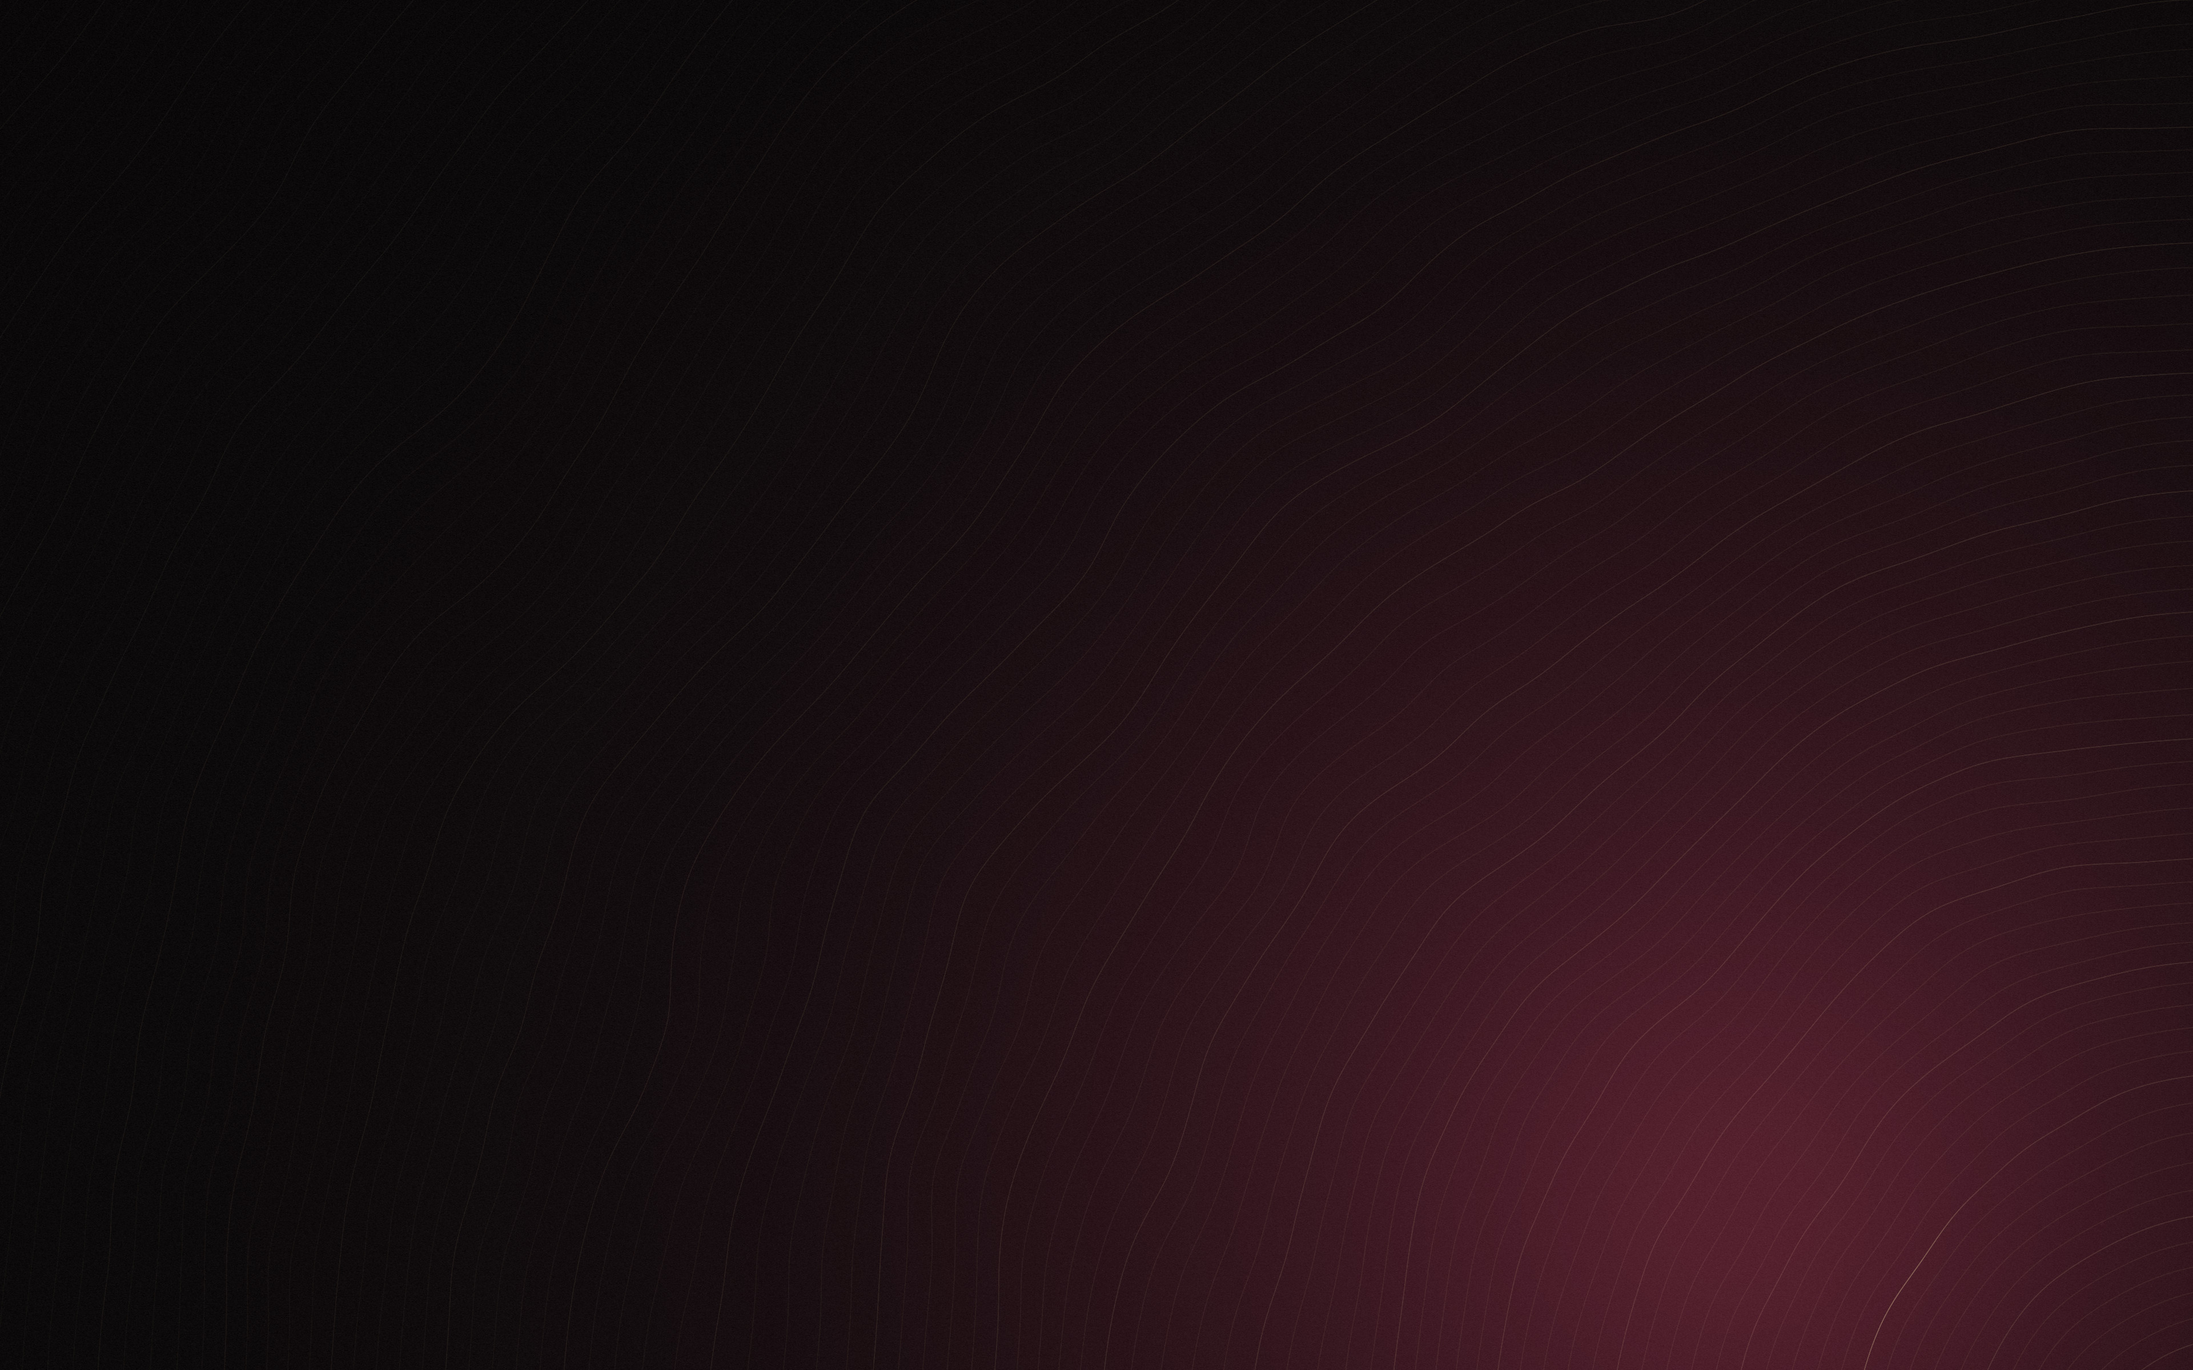
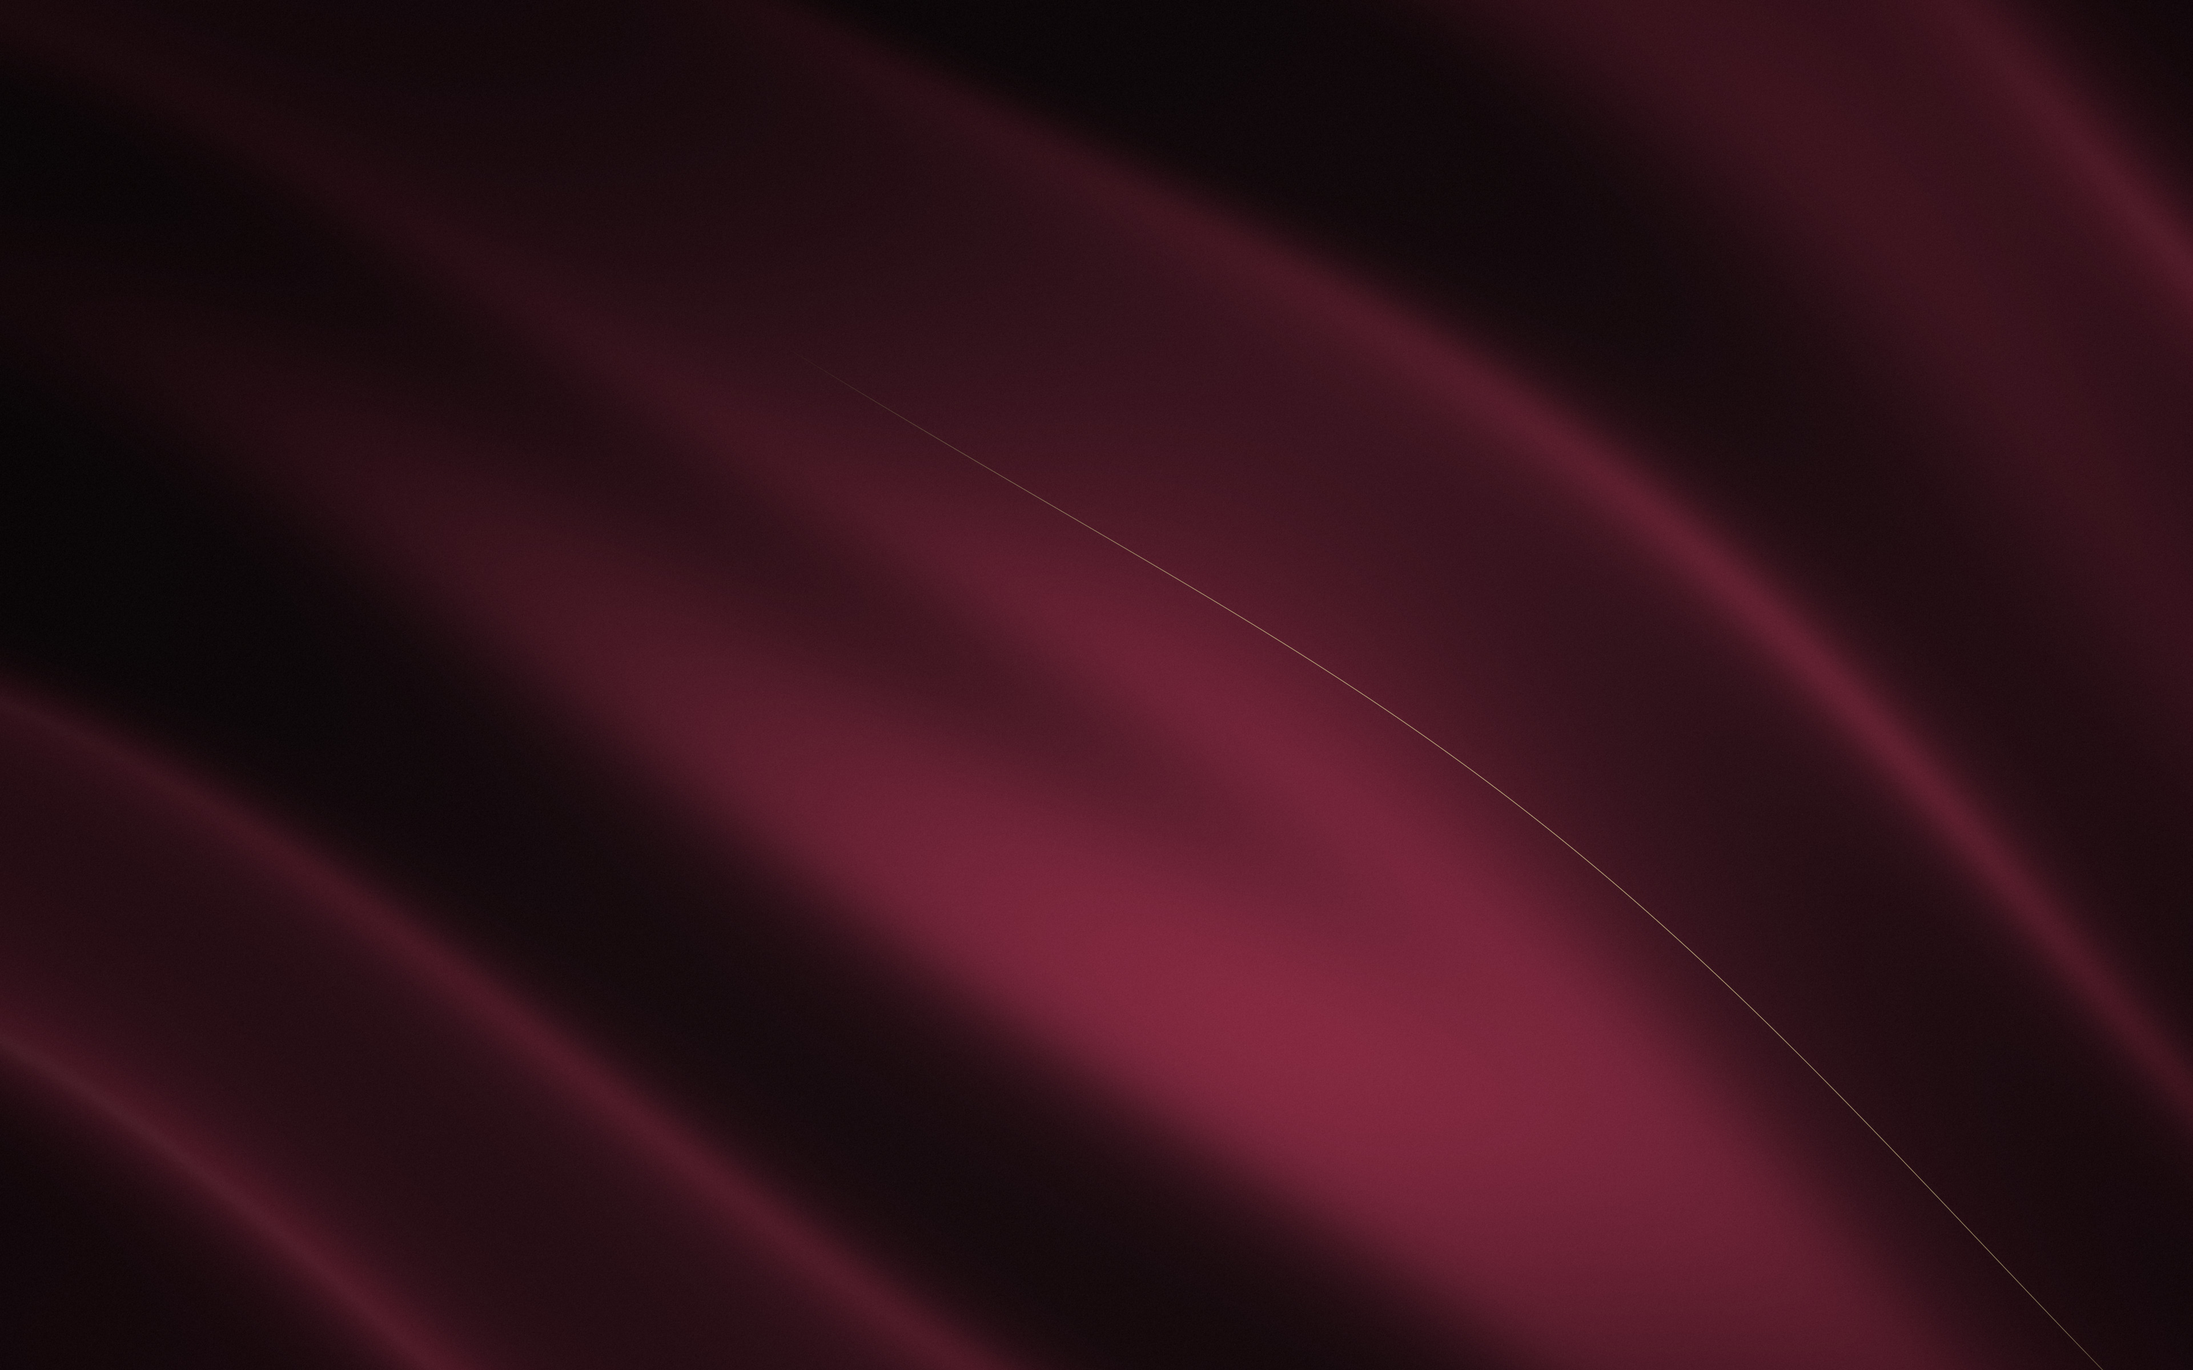
Redesign wallpapers: satin drape motif with fine gold hairline

diff --git a/tools/make_wallpapers.py b/tools/make_wallpapers.py
@@ -2,11 +2,19 @@
 # SPDX-License-Identifier: GPL-3.0-or-later
 """Procedural wallpaper generator for the Bordeaux themes (Hallmark direction).
 
+Motif, "Drape": broad satin folds sweeping diagonally across the frame, lit
+from the upper left, with the light pooled right of centre and the upper-left
+(dock, top bar) kept calm and dark. One fine gold hairline rides a fold crest.
+Height field from warped sine sums -> normal map -> diffuse + anisotropic
+sheen + specular, mapped through a per-variant tone ramp, then grain and
+TPDF dither so there is no banding.
+
 Deterministic: the same --seed always gives the same pixels. Colours come from
 tokens/tokens.toml. Needs only Pillow and numpy.
 
   tools/make_wallpapers.py                      # all variants -> wallpapers/
   tools/make_wallpapers.py --variant Bordeaux --seed 7 --out /tmp/wp
+  tools/make_wallpapers.py --variant Bordeaux --preview 1280x800 --out /tmp/wp
 """
 import argparse
 import tomllib
@@ -16,26 +24,22 @@ import numpy as np
 from PIL import Image
 
 ROOT = Path(__file__).resolve().parent.parent
+F = np.float32
+MAX_BYTES = 1_500_000            # cap for the 3840x2400 JPEG
 
 
 def hex_rgb(h):
     h = h.lstrip("#")
-    return np.array([int(h[i:i + 2], 16) for i in (0, 2, 4)], np.float32) / 255.0
+    return np.array([int(h[i:i + 2], 16) for i in (0, 2, 4)], F) / 255.0
 
 
-def smooth_noise(rng, w, h, cells, octaves=4):
-    """Fractal value noise in [-1, 1], bicubic-upsampled from coarse grids."""
-    out = np.zeros((h, w), np.float32)
-    amp, tot = 1.0, 0.0
-    for o in range(octaves):
-        n = cells * 2 ** o
-        gw, gh = n + 3, max(3, int(n * h / w) + 3)
-        g = rng.random((gh, gw)).astype(np.float32)
-        im = Image.fromarray(g, "F").resize((w, h), Image.BICUBIC)
-        out += amp * (np.asarray(im) - 0.5) * 2
-        tot += amp
-        amp *= 0.5
-    return out / tot
+def lin(c):                      # sRGB -> linear, so blends and light are physical
+    return np.where(c <= 0.04045, c / 12.92, ((c + 0.055) / 1.055) ** 2.4).astype(F)
+
+
+def srgb(c):
+    c = np.clip(c, 0, 1)
+    return np.where(c <= 0.0031308, c * 12.92, 1.055 * c ** (1 / 2.4) - 0.055).astype(F)
 
 
 def smoothstep(a, b, x):
@@ -43,75 +47,155 @@ def smoothstep(a, b, x):
     return t * t * (3 - 2 * t)
 
 
-def render(pal, dark, w, h, seed, lines=True, strength=1.0):
-    rng = np.random.default_rng(seed)
-    S = h / 2400.0                       # scale so look is size-independent
-    yy, xx = np.mgrid[0:h, 0:w].astype(np.float32)
-    nx, ny = xx / w, yy / h
+def mix(a, b, t):
+    return a + (b - a) * t
 
-    bg = hex_rgb(pal["bg-0"])
-    accent = hex_rgb(pal["accent"])
-    gold = hex_rgb(pal["gold"])
-    ink = gold if dark else accent       # line colour (spec: gold dark, merlot light)
 
-    # --- base: deep warm vertical gradient, slightly lifted toward the glow
+def ramp(t, stops):
+    """Piecewise-linear colour ramp; t is (h, w) in [0, 1], stops [(pos, rgb)]."""
+    t = np.clip(t, 0, 1)
+    out = np.empty(t.shape + (3,), F)
+    for c in range(3):
+        out[..., c] = np.interp(t, [p for p, _ in stops], [col[c] for _, col in stops])
+    return out
+
+
+# --------------------------------------------------------------------------
+# Per-variant look. Everything is derived from palette tokens.
+# --------------------------------------------------------------------------
+def look(pal, name, dark):
+    bg, acc, hi = hex_rgb(pal["bg-0"]), hex_rgb(pal["accent"]), hex_rgb(pal["accent-hi"])
+    gold, fg = hex_rgb(pal["gold"]), hex_rgb(pal["fg-0"])
+    grey = lambda c, k: mix(c, np.full(3, c.mean(), F), k)
+    if name == "Oxblood-Noir":   # same drape, carbon-neutral, lower key
+        stops = [(0.00, bg * 0.55),
+                 (0.24, mix(bg, grey(acc, 0.35), 0.30)),
+                 (0.52, mix(bg, grey(acc, 0.15), 0.78)),
+                 (0.78, acc * 1.08),
+                 (1.00, mix(hi, fg, 0.22) * 1.15)]
+        return dict(stops=stops, spec=mix(hi, fg, 0.6), spec_k=0.40, sheen=acc,
+                    sheen_k=0.22, line=gold, line_a=0.70, pool=0.92, floor=0.20,
+                    grain=0.0065)
+    if dark:                     # Bordeaux, Quiet Wine
+        stops = [(0.00, bg * 0.60),
+                 (0.24, mix(bg, acc, 0.42) * 0.90),
+                 (0.52, acc * 1.02),
+                 (0.78, hi * 1.18),
+                 (1.00, mix(hi, gold, 0.35) * 1.45)]
+        return dict(stops=stops, spec=mix(hi, fg, 0.5), spec_k=0.45, sheen=hi,
+                    sheen_k=0.30, line=gold, line_a=0.70, pool=1.0, floor=0.24,
+                    grain=0.0070)
+    # Merlot-Day: ivory satin with merlot in the shadows of the folds
+    b1 = hex_rgb(pal["bg-1"])
+    stops = [(0.00, mix(bg * 0.60, acc, 0.46)),
+             (0.24, mix(bg * 0.84, acc, 0.20)),
+             (0.50, mix(bg * 0.95, acc, 0.06)),
+             (0.75, bg),
+             (1.00, mix(b1, np.ones(3, F), 0.35))]
+    return dict(stops=stops, spec=np.ones(3, F), spec_k=0.30, sheen=b1, sheen_k=0.10,
+                line=gold, line_a=0.95, pool=1.0, floor=0.42, grain=0.0055)
+
+
+# --------------------------------------------------------------------------
+def drape(w, h, seed):
+    """Return (height, fold-axis coordinate) in unit space (frame height = 1)."""
+    r = np.random.default_rng(seed)
+    p = r.uniform(-0.25, 0.25, 6).astype(F)          # small, seed-driven phase drift
+    yy, xx = np.mgrid[0:h, 0:w].astype(F)
+    x, y = xx / F(h), yy / F(h)
+    del xx, yy
+    a = np.deg2rad(-30.0)
+    u = (x * np.cos(a) - y * np.sin(a)).astype(F)    # along the folds
+    v = (x * np.sin(a) + y * np.cos(a)).astype(F)    # across the folds
+    # the cloth twists: across-fold coordinate warped by the along-fold one
+    vv = v + 0.085 * np.sin(u * 2.2 + 0.7 + p[0]) + 0.040 * np.sin(u * 4.1 - v * 2.0 + 1.9 + p[1])
+    ph = vv * 8.6 + 0.70 * np.sin(u * 1.6 + 0.2 + p[2])
+    # asymmetric fold profile: soft bulge, tighter crease
+    hgt = (np.sin(ph) + 0.30 * np.sin(2 * ph + 0.9)) * 0.62
+    hgt += np.sin(vv * 2.3 - u * 0.9 + 1.0 + p[3]) * 0.80          # broad swell
+    hgt += np.sin(vv * 15.0 + u * 2.6 + 0.4 + p[4]) * 0.045        # fine ripple
+    return x, y, hgt.astype(F), ph.astype(F)
+
+
+def render(pal, name, dark, w, h, seed, plain=False):
+    L = look(pal, name, dark)
+    x, y, hgt, ph = drape(w, h, seed)
+    px = F(1.0 / h)                                  # unit size of one pixel
+
+    # normals from the height field (unit-space slope)
+    gy, gx = np.gradient(hgt)
+    k = F(0.36) / px
+    gx *= -k
+    gy *= -k
+    inv = 1.0 / np.sqrt(gx * gx + gy * gy + 1.0)
+    nx, ny, nz = gx * inv, gy * inv, inv
+    del gx, gy, inv
+
+    Ld = np.array([-0.50, -0.62, 0.60], F); Ld /= np.linalg.norm(Ld)
+    Hv = Ld + np.array([0, 0, 1], F); Hv /= np.linalg.norm(Hv)
+    ndl = np.clip(nx * Ld[0] + ny * Ld[1] + nz * Ld[2], 0, 1)
+    ndh = np.clip(nx * Hv[0] + ny * Hv[1] + nz * Hv[2], 0, 1)
+    del nx, ny, nz
+
+    # where the light lands: a soft pool right of centre, calm upper left
+    pool = np.exp(-((x - 1.08) ** 2 / 0.50 + (y - 0.60) ** 2 / 0.34)).astype(F)
+    calm = smoothstep(0.0, 1.0, np.hypot(x * 0.9, y * 1.1) / 0.95)   # 0 at top-left
+    lightmap = (L["floor"] + (1 - L["floor"]) * pool * L["pool"]) * (0.55 + 0.45 * calm)
+    occl = 0.62 + 0.38 * smoothstep(-1.6, 1.4, hgt)  # valleys sit deeper
+
+    tone = (0.10 + 0.90 * ndl ** 1.35) * occl * lightmap
+    if not dark:
+        tone = 0.22 + 0.78 * tone / 0.70
+    tone = np.clip(tone * 1.08, 0, 1)
+    img = lin(ramp(tone, L["stops"]))
+    del tone, occl
+
+    sheen = (ndh ** 5) * pool
+    spec = (ndh ** 48) * pool
+    img += sheen[..., None] * lin(L["sheen"]) * L["sheen_k"]
+    img += spec[..., None] * lin(L["spec"]) * L["spec_k"]
+    del sheen, spec, ndh, ndl
+
+    if not plain:
+        # gold hairline: a thread laid along one fold crest, lit through the pool
+        gvy, gvx = np.gradient(ph)
+        g = np.sqrt(gvx * gvx + gvy * gvy) + 1e-9
+        del gvx, gvy
+        c0 = 0.35
+        dpx = np.abs(ph - c0) / g
+        del g
+        lw = max(1.15 * h / 2400.0, 0.85)             # line width in px
+        cover = 1 - smoothstep(lw * 0.5 - 0.5, lw * 0.5 + 0.6, dpx)
+        along = smoothstep(0.55, 0.95, x) * (1 - smoothstep(1.45, 1.62, x))
+        a = (cover * along * L["line_a"] * (0.35 + 0.65 * pool) * min(1.0, lw / 1.15))
+        img = mix(img, lin(L["line"]), a[..., None])
+        del dpx, cover, a
+
+    # vignette (dark only) for depth at the edges
     if dark:
-        top, bot = bg * 0.82, bg * 1.12 + 0.004
-    else:
-        top, bot = bg * 1.03, bg * 0.95
-    t = (0.55 * ny + 0.45 * nx)[..., None]
-    img = top + (bot - top) * t
+        vig = 1 - 0.30 * smoothstep(0.35, 1.05, np.hypot((x - 0.85) / 1.0, (y - 0.55) / 0.75))
+        img *= vig[..., None]
+    del x, y, hgt, ph, pool
 
-    # --- burgundy glow, low-right
-    gx, gy = 0.80, 0.90
-    d = np.hypot((nx - gx) * w / h, ny - gy)
-    glow = np.exp(-(d / 0.55) ** 2) * 0.85 + np.exp(-(d / 0.20) ** 2) * 0.25
-    if dark:
-        img = img + glow[..., None] * accent * 0.50
-        # soft vignette
-        v = np.hypot((nx - 0.5) * 1.1, (ny - 0.5)) ** 2
-        img *= (1 - 0.35 * v)[..., None]
-    else:
-        img = img * (1 - glow[..., None] * 0.0) + glow[..., None] * (accent * 0.55 + 0.45 * bg - bg) * 0.30
+    out = srgb(img)
+    del img
+    rng = np.random.default_rng(seed + 1)
+    g1 = rng.standard_normal((h, w)).astype(F)
+    g1 = (g1 + 0.6 * np.roll(g1, 1, 0) + 0.6 * np.roll(g1, 1, 1)) / 1.39   # slightly soft grain
+    out += (g1 * (L["grain"] * (0.5 if plain else 1.0)))[..., None]
+    del g1
+    tp = (rng.random((h, w), F) - rng.random((h, w), F)) / 255.0         # TPDF dither
+    out += tp[..., None]
+    return Image.fromarray((np.clip(out, 0, 1) * 255 + 0.5).astype(np.uint8), "RGB")
 
-    # --- contour field: warped concentric distance from a point past the corner
-    if lines:
-        warp = smooth_noise(rng, w, h, 3, 4) * 0.045 * h
-        warp2 = smooth_noise(rng, w, h, 8, 3) * 0.004 * h
-        cx, cy = w * 1.02, h * 1.08
-        r = np.hypot(xx - cx, (yy - cy) * 1.05) + warp + warp2
-        spacing = 44.0 * S
-        f = r / spacing
-        gyr, gxr = np.gradient(f)
-        gm = np.hypot(gxr, gyr) + 1e-6               # field units per pixel
-        fr = f - np.floor(f + 0.5)                   # distance to nearest line (field units)
-        dist_px = np.abs(fr) / gm
-        wpx = 0.75 * max(S, 0.6)                     # hairline width
-        cover = 1 - smoothstep(wpx * 0.5, wpx * 0.5 + 1.0, dist_px)
-        idx = np.floor(f + 0.5).astype(np.int32)
-        major = (idx % 5 == 0).astype(np.float32)
-        # fade lines out away from the corner so the upper-left stays calm
-        reach = np.exp(-(np.hypot((nx - 1.0) * w / h, ny - 1.0) / 1.15) ** 2)
-        mod = 0.30 + 0.70 * smoothstep(0.0, 1.0, reach)
-        a_base = 0.085 if dark else 0.060
-        alpha = cover * (a_base * (1 + 0.8 * major)) * mod * strength
-        img = img * (1 - alpha[..., None]) + ink * alpha[..., None]
 
-        # sparing gold hairline: one index contour, lit over a short arc only
-        k = 15
-        sel = (idx == k).astype(np.float32)
-        ang = np.arctan2(-(yy - cy), -(xx - cx))
-        lit = smoothstep(0.10, 0.45, ang) * (1 - smoothstep(0.55, 0.90, ang))
-        ga = cover * sel * lit * (0.34 if dark else 0.40) * strength
-        img = img * (1 - ga[..., None]) + gold * ga[..., None]
-
-    # --- grain / dither: luminance noise, a little over 1 LSB
-    g1 = rng.standard_normal((h, w)).astype(np.float32)
-    g1 = (g1 + 0.5 * np.roll(g1, 1, 1)) / 1.12
-    amp = (0.010 if dark else 0.008)
-    img = img + (g1 * amp)[..., None]
-    img += (rng.random((h, w, 1)).astype(np.float32) - 0.5) / 255.0   # TPDF-ish dither
-    return Image.fromarray((np.clip(img, 0, 1) * 255 + 0.5).astype(np.uint8), "RGB")
+def save_jpeg(im, path, quality, cap=None):
+    q = quality
+    while True:
+        im.save(path, quality=q, subsampling=0, optimize=True, progressive=True)
+        if cap is None or path.stat().st_size <= cap or q <= 70:
+            return q
+        q -= 2
 
 
 def main():
@@ -119,7 +203,8 @@ def main():
     ap.add_argument("--variant", help="variant name (default: all)")
     ap.add_argument("--seed", type=int, default=20)
     ap.add_argument("--out", type=Path, default=ROOT / "wallpapers")
-    ap.add_argument("--quality", type=int, default=90)
+    ap.add_argument("--quality", type=int, default=92)
+    ap.add_argument("--preview", metavar="WxH", help="render one PNG at this size only")
     a = ap.parse_args()
 
     with open(ROOT / "tokens" / "tokens.toml", "rb") as fh:
@@ -128,20 +213,28 @@ def main():
     for n in names:
         if n not in variants:
             ap.error(f"unknown variant {n!r}; have {', '.join(variants)}")
-    (a.out / "grub").mkdir(parents=True, exist_ok=True)
+    a.out.mkdir(parents=True, exist_ok=True)
 
     for n in names:
         v = variants[n]
         dark = v["scheme"] == "dark"
         pal = v["palette"]
-        for (w, h, name) in ((3840, 2400, f"{n}.jpg"), (1920, 1080, f"{n}-1080p.jpg")):
-            im = render(pal, dark, w, h, a.seed)
-            im.save(a.out / name, quality=a.quality, subsampling=0, optimize=True)
-            print(a.out / name, (a.out / name).stat().st_size // 1024, "KB")
-        if dark:   # GRUB: plain dark tones, no line motif, very light grain
-            im = render(pal, dark, 1024, 768, a.seed, lines=False)
-            im.save(a.out / "grub" / f"{n}.png", optimize=True)
-            print(a.out / "grub" / f"{n}.png", (a.out / "grub" / f"{n}.png").stat().st_size // 1024, "KB")
+        if a.preview:
+            w, h = (int(s) for s in a.preview.lower().split("x"))
+            p = a.out / f"{n}-preview.png"
+            render(pal, n, dark, w, h, a.seed).save(p)
+            print(p)
+            continue
+        for (w, h, name, cap) in ((3840, 2400, f"{n}.jpg", MAX_BYTES),
+                                  (1920, 1080, f"{n}-1080p.jpg", None)):
+            p = a.out / name
+            q = save_jpeg(render(pal, n, dark, w, h, a.seed), p, a.quality, cap)
+            print(p, p.stat().st_size // 1024, "KB", f"q{q}")
+        if dark:   # GRUB: the same drape, no hairline, gentler grain
+            (a.out / "grub").mkdir(exist_ok=True)
+            p = a.out / "grub" / f"{n}.png"
+            render(pal, n, dark, 1024, 768, a.seed, plain=True).save(p, optimize=True)
+            print(p, p.stat().st_size // 1024, "KB")
 
 
 if __name__ == "__main__":

diff --git a/wallpapers/README.md b/wallpapers/README.md
@@ -4,11 +4,17 @@ Generated by `tools/make_wallpapers.py` (Pillow + numpy, deterministic, seed 20)
 Original procedural work, licensed GPL-3.0-or-later with the rest of the repo.
 No imagery, no downloads, no AI generation.
 
-Motif: fine warped contour lines radiating from the lower right over a deep warm
-gradient and burgundy glow, one sparing gold hairline arc, dithered grain.
-Colours are read from `tokens/tokens.toml`.
+Motif, "Drape": broad satin folds sweeping diagonally, lit from the upper left
+with the light pooled right of centre; the upper-left (dock, top bar) stays in
+shadow. A height field of warped sines is turned into a normal map and shaded
+with diffuse, sheen and specular terms in linear light, then mapped through a
+tone ramp built from `tokens/tokens.toml`. One fine gold hairline follows a fold.
+Grain plus TPDF dither, so no banding.
 
-- `<Variant>.jpg` 3840x2400, `<Variant>-1080p.jpg` 1920x1080 (lock screen)
-- `grub/<Variant>.png` 1024x768 plain dark background (dark variants only)
+- Bordeaux: deep wine. Oxblood-Noir: the same drape, carbon-neutral and lower key.
+  Merlot-Day: ivory satin with merlot in the fold shadows.
+- `<Variant>.jpg` 3840x2400 (capped at 1.5 MB), `<Variant>-1080p.jpg` 1920x1080 (lock screen)
+- `grub/<Variant>.png` 1024x768, the same drape without the hairline (dark variants only)
 
 Regenerate: `tools/make_wallpapers.py [--variant NAME] [--seed N] [--out DIR]`
+Quick look: `tools/make_wallpapers.py --variant Bordeaux --preview 1280x800 --out /tmp/wp`
